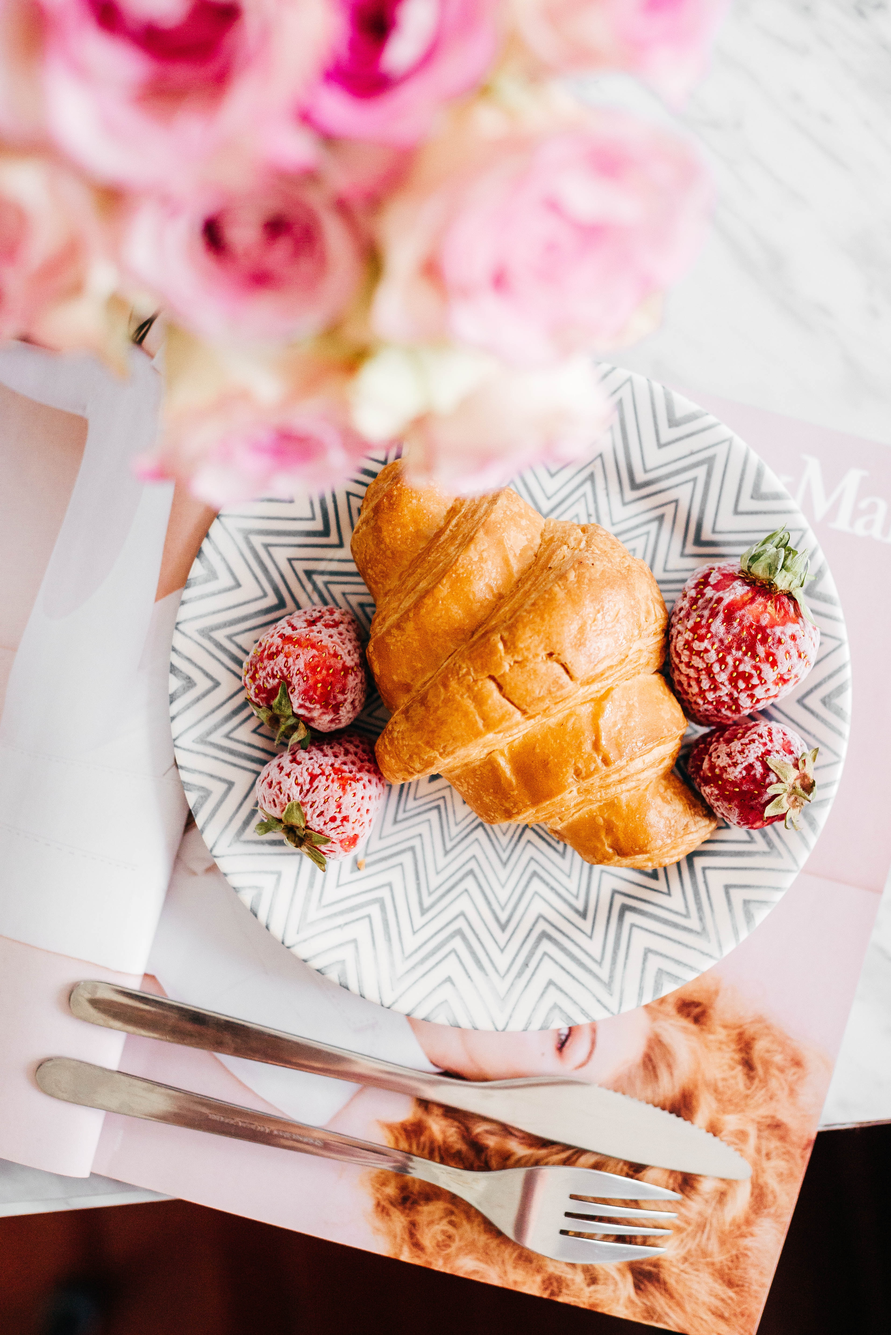
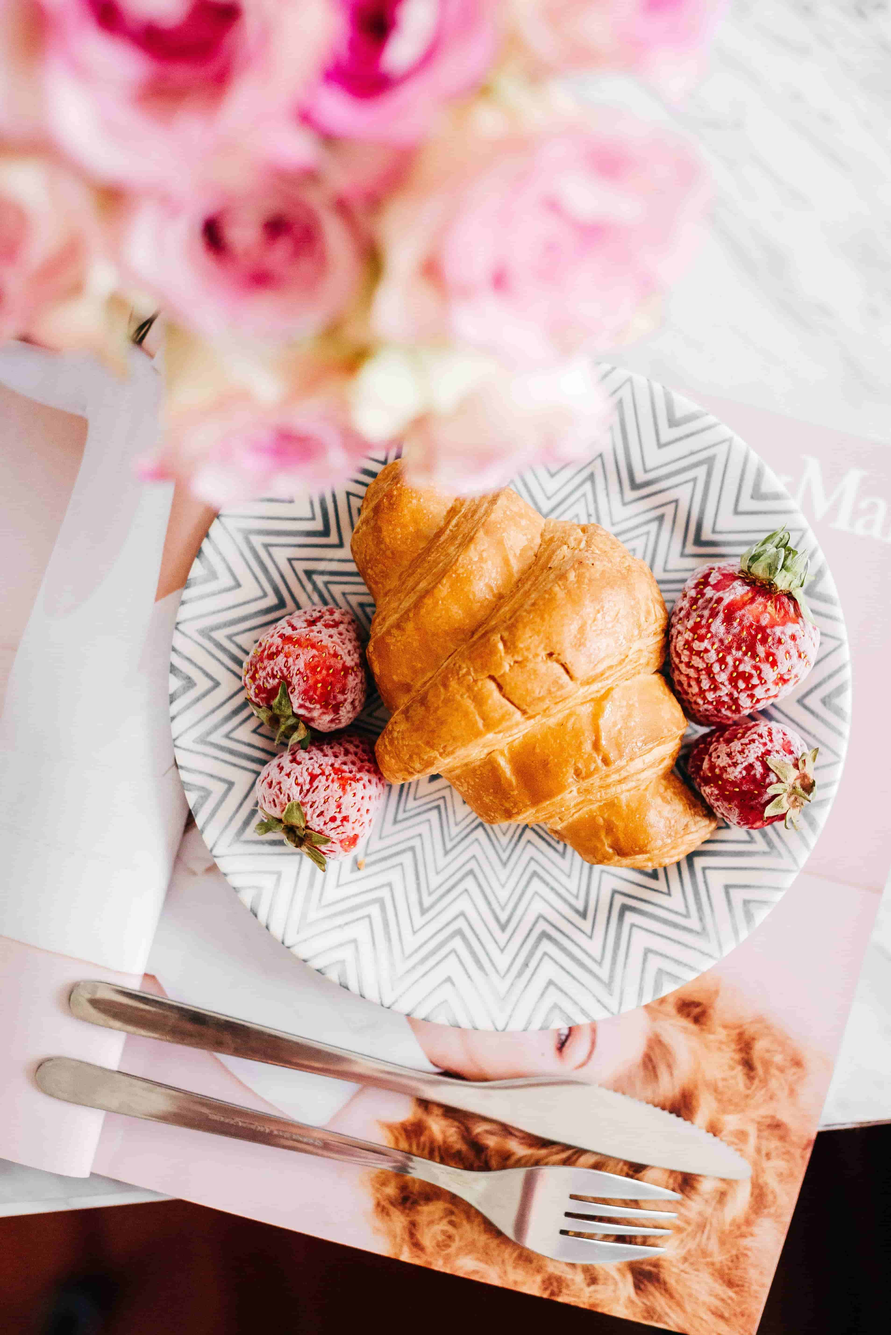
compressed image files and added setup for carousel and drawer component for initial load

diff --git a/client/src/views/HomeView.vue b/client/src/views/HomeView.vue
@@ -1,3 +1,12 @@
+<script setup>
+import { onMounted } from 'vue'
+import { initCarousels } from 'flowbite'
+
+onMounted(() => {
+    initCarousels();
+})
+</script>
+
 <template>
   <div id="default-carousel" class="relative z-0 w-full mt-0" data-carousel="slide">
     <!-- Carousel wrapper -->
@@ -143,67 +152,3 @@
     </div>
   </footer>
 </template>
-<script setup>
-import { onMounted } from 'vue'
-import { Carousel } from 'flowbite'
-
-onMounted(() => {
-  const items = [
-    {
-      position: 0,
-      el: document.getElementById('carousel-item-1')
-    },
-    {
-      position: 1,
-      el: document.getElementById('carousel-item-2')
-    },
-    {
-      position: 2,
-      el: document.getElementById('carousel-item-3')
-    },
-    {
-      position: 3,
-      el: document.getElementById('carousel-item-4')
-    },
-  ];
-
-  const options = {
-    defaultPosition: 1,
-    interval: 3000,
-
-    indicators: {
-      activeClasses: 'bg-white dark:bg-gray-800',
-      inactiveClasses: 'bg-white/50 dark:bg-gray-800/50 hover:bg-white dark:hover:bg-gray-800',
-      items: [
-        {
-          position: 0,
-          el: document.getElementById('carousel-indicator-1')
-        },
-        {
-          position: 1,
-          el: document.getElementById('carousel-indicator-2')
-        },
-        {
-          position: 2,
-          el: document.getElementById('carousel-indicator-3')
-        },
-        {
-          position: 3,
-          el: document.getElementById('carousel-indicator-4')
-        },
-      ]
-    },
-
-  };
-
-  if (document.getElementById('carousel-item-1')) {
-    const carousel = new Carousel(items, options);
-    console.log("hello");
-
-    carousel.next();
-
-
-
-  }
-})
-</script>

diff --git a/client/src/views/MenuView.vue b/client/src/views/MenuView.vue
@@ -1,3 +1,11 @@
+<script setup>
+import { onMounted } from 'vue'
+import { initDrawers } from 'flowbite'
+
+onMounted(() => {
+    initDrawers();
+})
+</script>
 <template>
 <!-- drawer component -->
 <div id="drawer-example" class="fixed top-0 left-0 z-40 h-screen p-4 overflow-y-auto transition-transform -translate-x-full bg-white w-80 dark:bg-gray-800" tabindex="-1" aria-labelledby="drawer-label">
@@ -85,7 +93,6 @@
 </template>
 
 <script>
-
 export default {
     data() {
         return {

diff --git a/client/src/App.vue b/client/src/App.vue
@@ -39,3 +39,4 @@
   </nav>
   <router-view/>
 </template>
+
